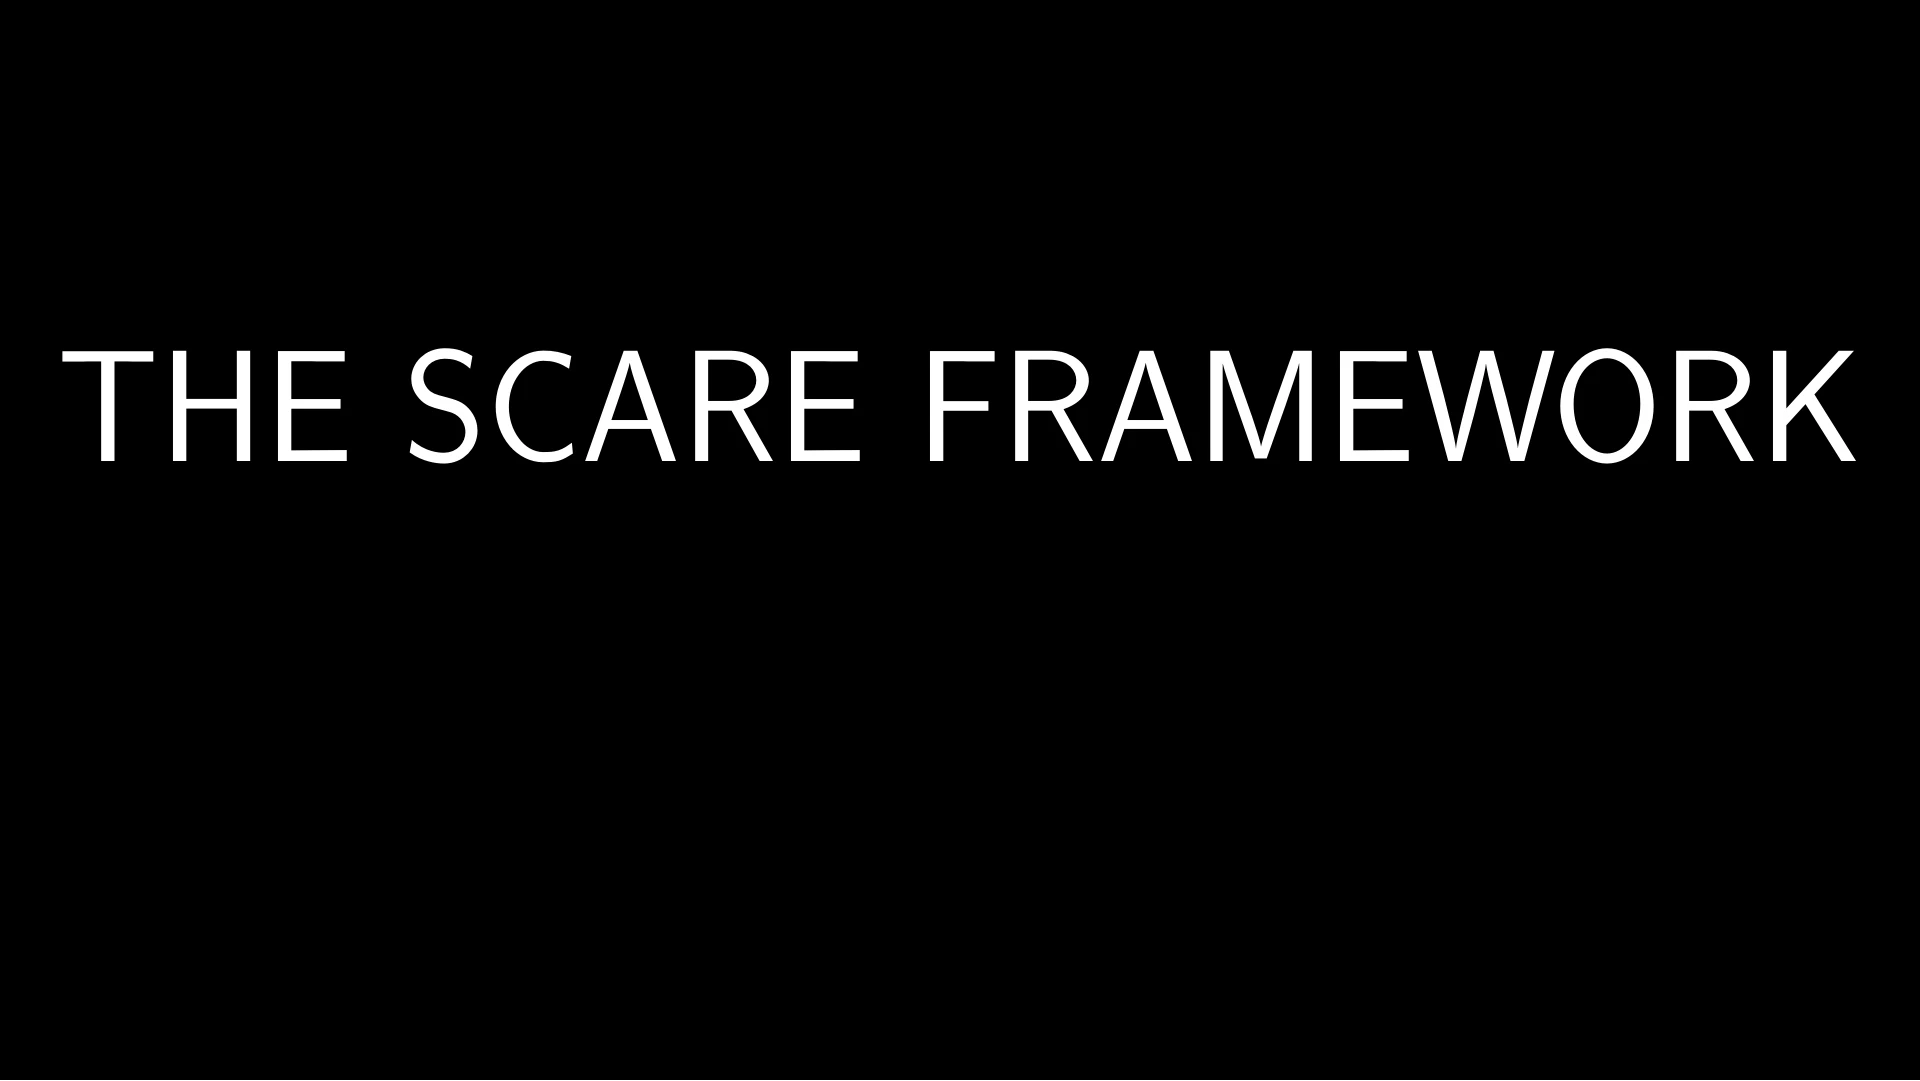
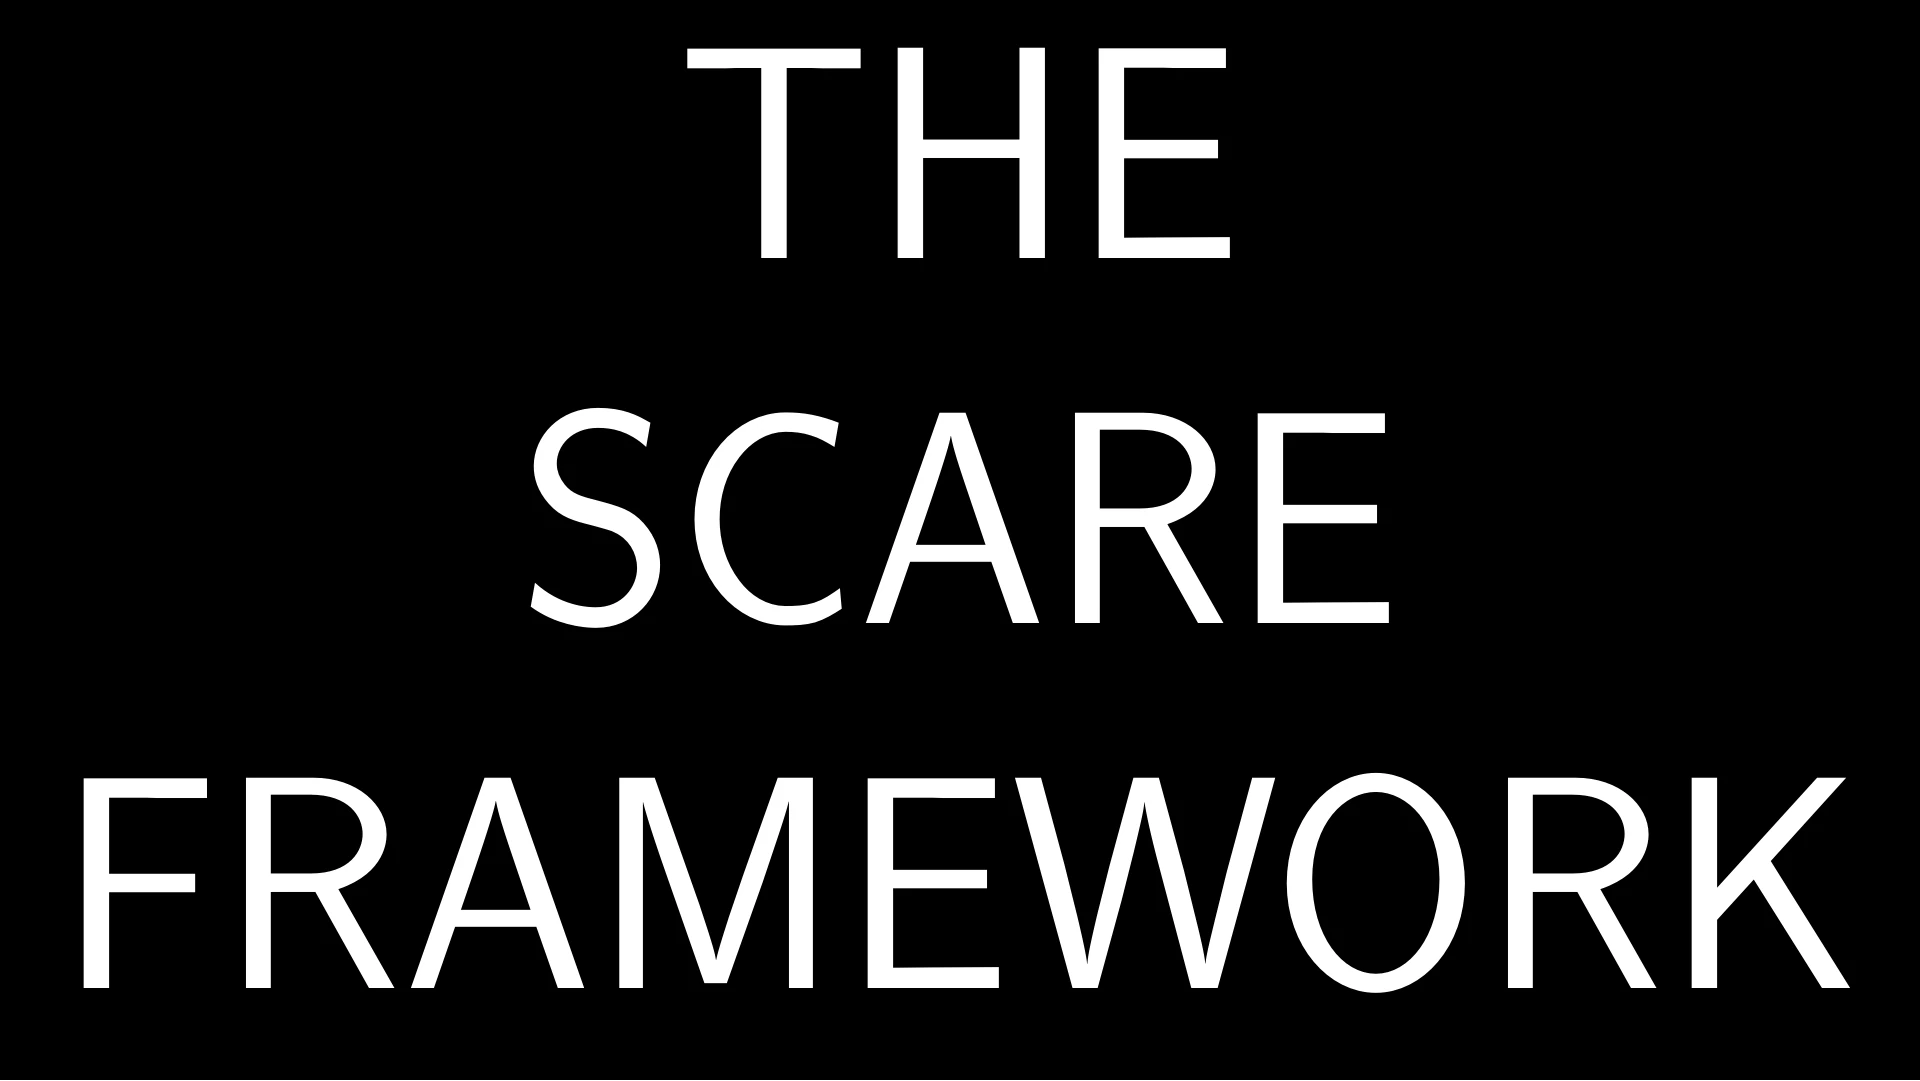
v4

diff --git a/kindle-ntfy.html b/kindle-ntfy.html
@@ -131,16 +131,14 @@
   <button id="gotoGo">Go</button>
 </div>
 
-<script src="https://cdn.scaledrone.com/scaledrone.min.js"></script>
 <script>
 (function () {
   'use strict';
 
   // ---------------- CONFIG ----------------
   var BASE = "https://raw.githubusercontent.com/cityofsmiles/lac-slides/refs/heads/main/slides/";
-  // Scaledrone remote link. Both values must match index.html exactly.
-  var SD_CHANNEL_ID = 'YOUR_SCALEDRONE_CHANNEL_ID';
-  var SD_ROOM = 'observable-lac-slides-k3x8p1';
+  // Must match REMOTE_TOPIC in slide-viewer.html exactly.
+  var REMOTE_TOPIC = 'lac-slides-remote-k3x8p1';
   var MAX_SLIDES_TO_PROBE = 1000;
   // -----------------------------------------
 
@@ -258,45 +256,16 @@
     setTimeout(function () { zone.className = base; }, 150);
   }
 
-  var drone = null, linked = false;
-
-  function connectRemote() {
-    if (typeof Scaledrone === 'undefined') {
-      statusEl.textContent = 'cannot load Scaledrone - check wifi';
-      return;
-    }
-    if (typeof WebSocket === 'undefined') {
-      statusEl.textContent = 'browser has no WebSocket support';
-      return;
-    }
-    if (SD_CHANNEL_ID === 'YOUR_SCALEDRONE_CHANNEL_ID') {
-      statusEl.textContent = 'set SD_CHANNEL_ID first';
-      return;
-    }
-    statusEl.textContent = 'connecting...';
-    drone = new Scaledrone(SD_CHANNEL_ID);
-    drone.on('open', function (err) {
-      if (err) { linked = false; statusEl.textContent = 'connect failed'; return; }
-      linked = true;
-      statusEl.textContent = 'linked';
-    });
-    drone.on('reconnect', function () { linked = true; statusEl.textContent = 'linked'; });
-    drone.on('close', function () { linked = false; statusEl.textContent = 'disconnected - retrying'; });
-    drone.on('disconnect', function () { linked = false; statusEl.textContent = 'disconnected - retrying'; });
-    drone.on('error', function () { linked = false; statusEl.textContent = 'link error'; });
-  }
-
   function send(cmd) {
-    if (!drone || !linked) {
-      statusEl.textContent = 'not linked - check wifi';
-      return;
-    }
-    try {
-      drone.publish({ room: SD_ROOM, message: cmd });
+    fetch('https://ntfy.sh/' + REMOTE_TOPIC, {
+      method: 'POST',
+      body: JSON.stringify(cmd)
+    }).then(function () {
       flashSent();
-    } catch (e) {
+      statusEl.textContent = 'linked';
+    }).catch(function () {
       statusEl.textContent = 'send failed - check wifi';
-    }
+    });
   }
 
   function goNext() {
@@ -304,7 +273,7 @@
     index += 1;
     updatePosLabel();
     setZonesEnabled(index > 0, !total || index < total - 1);
-    send({ action: 'goto', index: index });
+    send({ action: 'next' });
     flashZone(zoneNext);
   }
 
@@ -313,7 +282,7 @@
     index -= 1;
     updatePosLabel();
     setZonesEnabled(index > 0, !total || index < total - 1);
-    send({ action: 'goto', index: index });
+    send({ action: 'prev' });
     flashZone(zonePrev);
   }
 
@@ -350,15 +319,13 @@
 
   updatePosLabel();
   setZonesEnabled(false, false);
-  connectRemote();
   statusEl.textContent = 'counting slides...';
 
   countSlides().then(function (n) {
     total = n;
     updatePosLabel();
     setZonesEnabled(index > 0, total > 0 && index < total - 1);
-    if (!total) statusEl.textContent = 'no slides found';
-    else if (!linked) statusEl.textContent = 'ready';
+    statusEl.textContent = total ? 'ready' : 'no slides found';
   });
 })();
 </script>

diff --git a/index-ntfy.html b/index-ntfy.html
@@ -96,7 +96,6 @@
 <div id="hint">&larr; &rarr; or tap sides to navigate &middot; F for fullscreen</div>
 <button id="fsBtn">Fullscreen</button>
 
-<script src="https://cdn.scaledrone.com/scaledrone.min.js"></script>
 <script>
 (function () {
   // ---------------- CONFIG ----------------
@@ -105,14 +104,13 @@
   var BEHIND = 2;       // slides to keep ready behind
   var EXT = 'webp';      // change to 'webp' after converting your slides
   // Pin to a tag or commit (e.g. "v1") for long-lived CDN caching; "main" is slower.
-  var REF = 'v4';
+  var REF = 'v3';
   var BASES = [
     "https://cdn.jsdelivr.net/gh/cityofsmiles/lac-slides@" + REF + "/slides/",
     "https://raw.githubusercontent.com/cityofsmiles/lac-slides/refs/heads/main/slides/"
   ];
-  // Scaledrone remote link. Both values must match kindle.html exactly.
-  var SD_CHANNEL_ID = 'YOUR_SCALEDRONE_CHANNEL_ID';
-  var SD_ROOM = 'observable-lac-slides-k3x8p1';
+  // Must match REMOTE_TOPIC in kindle-remote.html exactly.
+  var REMOTE_TOPIC = 'lac-slides-remote-k3x8p1';
   // -----------------------------------------
 
   var current = 1, shown = 0;
@@ -219,28 +217,24 @@
       }).catch(function () {});
   }
 
-  // ---------- Remote control link (receives commands over Scaledrone) ----------
-  function handleCommand(cmd) {
-    if (typeof cmd === 'string') { try { cmd = JSON.parse(cmd); } catch (e) { return; } }
-    if (!cmd || !cmd.action) return;
-    if (cmd.action === 'next') next();
-    else if (cmd.action === 'prev') prev();
-    else if (cmd.action === 'goto' && typeof cmd.index === 'number') goto(cmd.index + 1);
-  }
-
+  // ---------- Remote control link (receives commands over ntfy.sh) ----------
   function connectRemote() {
-    if (typeof Scaledrone === 'undefined' || SD_CHANNEL_ID === 'YOUR_SCALEDRONE_CHANNEL_ID') return;
-    var drone = new Scaledrone(SD_CHANNEL_ID);
-    drone.on('open', function (err) {
-      if (err) { linkDot.classList.remove('live'); return; }
-      var room = drone.subscribe(SD_ROOM);
-      room.on('message', function (msg) { handleCommand(msg.data); });
-      linkDot.classList.add('live');
-    });
-    drone.on('reconnect', function () { linkDot.classList.add('live'); });
-    drone.on('close', function () { linkDot.classList.remove('live'); });
-    drone.on('disconnect', function () { linkDot.classList.remove('live'); });
-    drone.on('error', function () { linkDot.classList.remove('live'); });
+    if (typeof EventSource === 'undefined') return;
+    var url = 'https://ntfy.sh/' + REMOTE_TOPIC + '/sse';
+    var es = new EventSource(url);
+    es.onopen = function () { linkDot.classList.add('live'); };
+    es.onerror = function () { linkDot.classList.remove('live'); };
+    es.onmessage = function (evt) {
+      var payload;
+      try { payload = JSON.parse(evt.data); } catch (e) { return; }
+      if (!payload || !payload.message) return;
+      var cmd;
+      try { cmd = JSON.parse(payload.message); } catch (e) { return; }
+      if (!cmd || !cmd.action) return;
+      if (cmd.action === 'next') next();
+      else if (cmd.action === 'prev') prev();
+      else if (cmd.action === 'goto' && typeof cmd.index === 'number') goto(cmd.index + 1);
+    };
   }
   connectRemote();
 })();
